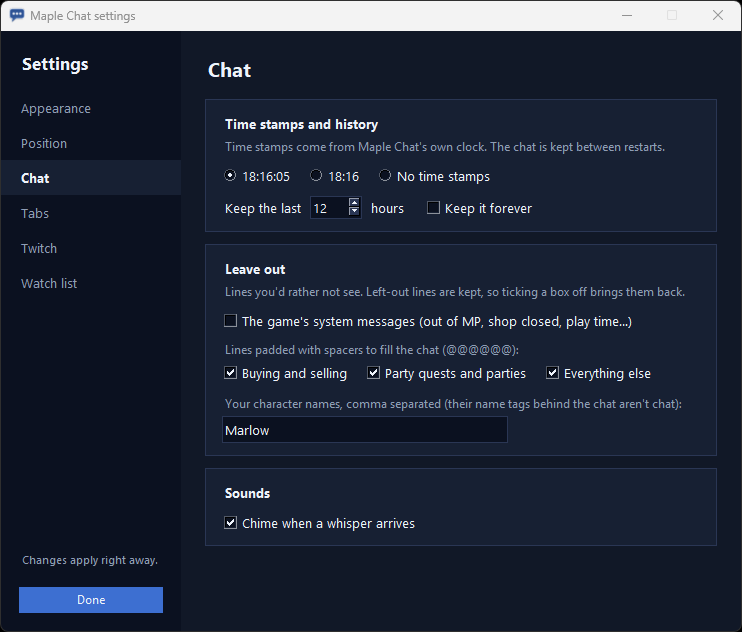
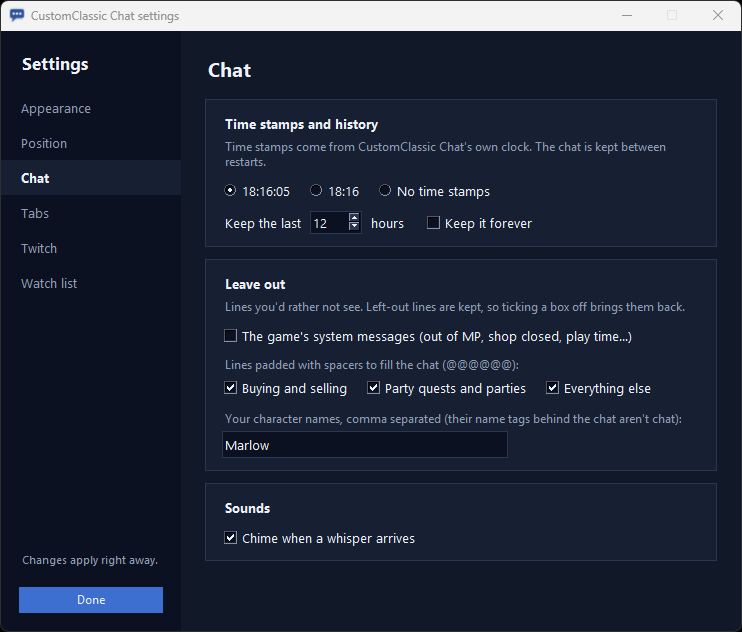
Rename to CustomClassic Chat: a customizable chat and smega blocker
Maple Chat was too generic a name. The app, its window titles, tray icon, messages, exe
(CustomClassicChat.exe), zip, README and screenshots now say CustomClassic Chat; the main
module is customclassic_chat.py. Settings and chat history files keep their names, so an
update keeps them.

diff --git a/customclassic_chat.py b/customclassic_chat.py
@@ -1,4 +1,4 @@
-"""Maple Chat: a modern chat panel over the game's own chat box, without the megaphones.
+"""CustomClassic Chat: a modern chat panel over the game's own chat box, without the megaphones.
 
 It sits exactly inside the game's chat box (its tab strip is the box's top line) and shows the
 same chat sorted into tabs: All (everything but megaphones), Whisper, Party, Buddy and Mega
@@ -15,14 +15,14 @@ leaves this PC. The panel hides while the game isn't the active window.
 See-through: clicking ◐ on the tab strip makes the messages 90% see-through and lets clicks
 through, so the game's own chat shows and can be clicked; clicking it again makes them solid.
 
-    start.bat                   (or: pythonw maple_chat.py)
+    start.bat                   (or: pythonw customclassic_chat.py)
     Ctrl+Alt+F5   adjust: drag to move, drag the bottom-right corner to resize; press again to save
     Ctrl+Alt+F3   reset position: back on the game's chat box, fitted again
     Ctrl+Alt+F6   hide / show
     Ctrl+Alt+F7   quit
 
-    python maple_chat.py --demo                       made-up messages, to try the tabs (reads nothing)
-    python maple_chat.py --replay shot1.png ...       read saved screenshots and print what goes where
+    python customclassic_chat.py --demo                       made-up messages, to try the tabs (reads nothing)
+    python customclassic_chat.py --replay shot1.png ...       read saved screenshots and print what goes where
 
 Settings: chat.json holds the panel's place (relative to the game window) and the options in DEFAULTS.
 """
@@ -53,7 +53,7 @@ DEFAULTS = {
     "keep_hours": 12,         # chat history kept between restarts, in hours; 0 keeps it forever
     "timestamps": "seconds",  # "seconds" [18:16:05], "minutes" [18:16] or "off"
     "opacity": 1.0,           # the panel's opacity when ◐ is off
-    "panel_bg": None,         # background colour; None: Maple Chat's dark blue
+    "panel_bg": None,         # background colour; None: CustomClassic Chat's dark blue
     "colors": {},             # text colour per chat type (map, whisper, party, buddy, system, mega); empty: the game's
     "see_through": False,     # ◐ clicked on: the messages see-through and click-through until clicked off
     "peek_alpha": 0.1,        # how opaque they are then: 0.1 is 90% see-through
@@ -87,7 +87,7 @@ CUSTOM_KINDS = [("map", "Map chat"), ("whisper", "Whispers"), ("party", "Party")
                 ("mega", "Megaphones"), ("system", "System messages"), ("watch", "Watch list catches")]
 COLORS = {"twitch": "#bf94ff", "map": "#ffffff", "whisper": "#00ff00", "party": "#ff8fc7", "buddy": "#ff9900", "other": "#c8d2e4",
           "mega": "#f2a7cf", "system": "#ffafaf", "status": "#ffc24b"}  # the game's own where measured; notes in amber
-# the game's own pop-ups that appear over the chat box: Maple Chat steps aside while one is up
+# the game's own pop-ups that appear over the chat box: CustomClassic Chat steps aside while one is up
 POPUP = re.compile(r"(?i)\b(?:party|guild|alliance|family)\s+invit\w*\s+from\b|\b(?:trade|friend|buddy)\s+request\s+from\b"
                    r"|\binvited\s+you\b")
 PANEL, STRIP, TAB, TAB_ON, INK, SOFT, DOT = "#111827", "#0b1120", "#1c2740", "#2f5597", "#eef3fb", "#8f9db5", "#ff4b4b"
@@ -348,7 +348,7 @@ STAMP_FORMATS = {"seconds": "%H:%M:%S", "minutes": "%H:%M", "off": None}
 
 
 def line_text(msg: dict, stamps: str = "seconds") -> str:
-    """A message as one chat line. The time is Maple Chat's own clock when the line was read,
+    """A message as one chat line. The time is CustomClassic Chat's own clock when the line was read,
     so it's there even when the game shows no time stamps."""
     who = msg["name"]
     if msg["kind"] == "whisper":
@@ -719,7 +719,7 @@ def start_tray(app):
         pystray.Menu.SEPARATOR,
         pystray.MenuItem("Quit", send("hotkey", HK_QUIT)),
     )
-    icon = pystray.Icon("MapleChat", icon_image(), "Maple Chat", menu)
+    icon = pystray.Icon("CustomClassicChat", icon_image(), "CustomClassic Chat", menu)
     threading.Thread(target=icon.run, daemon=True).start()
     return icon
 
@@ -968,9 +968,9 @@ class ChatPanel:
         self.repeat_id = None
         self.user_hidden = False
         self.line = (opts["box"] or {}).get("line") or 24.0
-        self.msgs = overlay.Overlay("Maple Chat", 40, 40, 400, 100, click_through=False)
+        self.msgs = overlay.Overlay("CustomClassic Chat", 40, 40, 400, 100, click_through=False)
         self.root = self.msgs.root
-        self.strip = overlay.Overlay("Maple Chat tabs", 40, 20, 400, 20, master=self.root, click_through=False)
+        self.strip = overlay.Overlay("CustomClassic Chat tabs", 40, 20, 400, 20, master=self.root, click_through=False)
         for w in (self.msgs, self.strip):
             w.canvas.configure(bg=self.opts["panel_bg"] or PANEL)
             w.canvas.bind("<MouseWheel>", self.on_wheel)
@@ -1052,7 +1052,7 @@ class ChatPanel:
             self.toast.root.destroy()
         p = self.panel_now()
         w = max(300, min(560, p["width"] - 20))
-        t = self.toast = self.overlay.Overlay("Maple Chat watch", p["left"] + 10, 0, w, 10, master=self.root,
+        t = self.toast = self.overlay.Overlay("CustomClassic Chat watch", p["left"] + 10, 0, w, 10, master=self.root,
                                               click_through=False)
         c = t.canvas
         c.configure(bg="#2a2208")
@@ -1451,7 +1451,7 @@ class ChatPanel:
         """A colour picker for the background (panel_bg) or one chat type's text."""
         from tkinter import colorchooser
         now = self.opts["panel_bg"] or PANEL if key == "panel_bg" else self.opts["colors"].get(key) or COLORS[key]
-        _, chosen = colorchooser.askcolor(color=now, parent=self.settings, title="Maple Chat colour")
+        _, chosen = colorchooser.askcolor(color=now, parent=self.settings, title="CustomClassic Chat colour")
         if not chosen:
             return
         if key == "panel_bg":
@@ -1471,7 +1471,7 @@ class ChatPanel:
         self.render()
 
     def icon_path(self) -> Path:
-        return save_icon(CACHE_DIR / "maple_chat.ico")
+        return save_icon(CACHE_DIR / "customclassic_chat.ico")
 
     def open_settings(self) -> None:
         """The settings window (settings_ui.py); a second open brings the first to the front."""
@@ -1610,14 +1610,14 @@ def print_replay(paths: list[Path]) -> None:
 
 def main(argv: list[str]) -> None:
     import overlay
-    if "--make-icon" in argv:  # for shortcuts: cache/maple_chat.ico
-        print(save_icon(CACHE_DIR / "maple_chat.ico"))
+    if "--make-icon" in argv:  # for shortcuts: cache/customclassic_chat.ico
+        print(save_icon(CACHE_DIR / "customclassic_chat.ico"))
         return
     if "--replay" in argv:
         print_replay([Path(a) for a in argv[argv.index("--replay") + 1:] if not a.startswith("--")])
         return
-    if not overlay.single_instance("MapleChatOverlay"):
-        message("Maple Chat is already running. Its blue speech-bubble icon is in the taskbar's notification "
+    if not overlay.single_instance("CustomClassicChatOverlay"):
+        message("CustomClassic Chat is already running. Its blue speech-bubble icon is in the taskbar's notification "
                 "area (bottom right, maybe behind the ^ arrow).")
         return
     overlay.dpi_aware()
@@ -1628,7 +1628,7 @@ def main(argv: list[str]) -> None:
 def message(text: str) -> None:
     """A plain Windows message box: the .exe has no console to print to."""
     import ctypes
-    ctypes.windll.user32.MessageBoxW(None, text, "Maple Chat", 0x40)  # MB_ICONINFORMATION
+    ctypes.windll.user32.MessageBoxW(None, text, "CustomClassic Chat", 0x40)  # MB_ICONINFORMATION
 
 
 if __name__ == "__main__":
@@ -1637,4 +1637,4 @@ if __name__ == "__main__":
     except Exception:  # without a console a crash would vanish: keep it in crash.log and say so
         import traceback
         (HERE / "crash.log").write_text(traceback.format_exc(), encoding="utf-8")
-        message(f"Maple Chat stopped because of an error. The details are in {HERE / 'crash.log'}.")
+        message(f"CustomClassic Chat stopped because of an error. The details are in {HERE / 'crash.log'}.")

diff --git a/settings_ui.py b/settings_ui.py
@@ -1,4 +1,4 @@
-"""Maple Chat's settings window: a sidebar of sections, each a page of cards.
+"""CustomClassic Chat's settings window: a sidebar of sections, each a page of cards.
 
 Every change applies as it's made (the panel's own methods do the work and save), so there is
 no Save button: Done just closes the window. The pages follow what a player looks for:
@@ -93,7 +93,7 @@ class SettingsWindow:
     def __init__(self, app):
         self.app, self.opts = app, app.opts
         top = self.top = tk.Toplevel(app.root)
-        top.title("Maple Chat settings")
+        top.title("CustomClassic Chat settings")
         top.configure(bg=BG)
         top.resizable(False, False)
         top.attributes("-topmost", True)
@@ -202,7 +202,7 @@ class SettingsWindow:
         button(c, "Reset to default colours", self.reset_colours).pack(anchor="w", pady=(10, 0))
 
     def colour_of(self, key: str) -> str:
-        from maple_chat import COLORS, PANEL
+        from customclassic_chat import COLORS, PANEL
         return (self.opts["panel_bg"] or PANEL) if key == "panel_bg" else (self.opts["colors"].get(key) or COLORS[key])
 
     def paint_swatches(self) -> None:
@@ -236,9 +236,9 @@ class SettingsWindow:
 
     def chat(self, page) -> None:
         app, opts = self.app, self.opts
-        from maple_chat import PADDED_KINDS
+        from customclassic_chat import PADDED_KINDS
         c = card(page, "Time stamps and history",
-                 "Time stamps come from Maple Chat's own clock. The chat is kept between restarts.")
+                 "Time stamps come from CustomClassic Chat's own clock. The chat is kept between restarts.")
         stamps = tk.StringVar(value=opts["timestamps"])
         row = tk.Frame(c, bg=CARD)
         row.pack(fill="x")
@@ -302,7 +302,7 @@ class SettingsWindow:
 
     def tabs(self, page) -> None:
         app, opts = self.app, self.opts
-        from maple_chat import CUSTOM_KINDS
+        from customclassic_chat import CUSTOM_KINDS
         custom = {"on": False, "name": "Custom", "kinds": [], **(opts["custom_tab"] or {})}
         on = tk.BooleanVar(value=custom["on"])
         name = tk.StringVar(value=custom["name"])

diff --git a/tests/fitcheck.py b/tests/fitcheck.py
@@ -1,8 +1,8 @@
-"""Checks how well Maple Chat fits and reads the game at its current resolution and UI Size.
+"""Checks how well CustomClassic Chat fits and reads the game at its current resolution and UI Size.
 
 Run it with the game in front (python tests/fitcheck.py). It reads the game window once, the
-way Maple Chat does (text only, nothing saved), and prints the game's size, the chat box Maple
-Chat has saved, a fresh measurement of the chat box, and how many chat lines read cleanly.
+way CustomClassic Chat does (text only, nothing saved), and prints the game's size, the chat
+box it has saved, a fresh measurement of the chat box, and how many chat lines read cleanly.
 """
 import sys
 import time
@@ -10,7 +10,7 @@ from pathlib import Path
 
 sys.path.insert(0, str(Path(__file__).resolve().parents[1]))
 
-import maple_chat as mc  # noqa: E402
+import customclassic_chat as mc  # noqa: E402
 import reader as core  # noqa: E402
 
 

diff --git a/watch.py b/watch.py
@@ -1,4 +1,4 @@
-"""Maple Chat's watch list: words and items to look out for in megaphones.
+"""CustomClassic Chat's watch list: words and items to look out for in megaphones.
 
 An entry is a word or an item name. On its own it fires on any megaphone that mentions it
 (close spellings count, so "mushrnom" from a blurry read still finds "mushmom", unless the
@@ -8,7 +8,7 @@ what's sold or bought at what price. Item names and the shorthands chat uses for
 from the price site's /api/names (kept for an hour in cache/names.json, so it works offline
 from the last copy); prices are only ever the ones you type.
 
-Nothing here touches the game: it only looks at messages Maple Chat already read.
+Nothing here touches the game: it only looks at messages CustomClassic Chat already read.
 """
 
 from __future__ import annotations

diff --git a/twitch_chat.py b/twitch_chat.py
@@ -1,4 +1,4 @@
-"""Twitch chat for Maple Chat: a channel's chat, read anonymously by its name.
+"""Twitch chat for CustomClassic Chat: a channel's chat, read anonymously by its name.
 
 Twitch lets anyone read a channel's chat as a guest ("justinfan" + a number) over its chat
 server, so no login, key or app is needed, and nothing is ever sent to the chat. Messages
@@ -65,7 +65,7 @@ def readable(color: str) -> str:
 
 
 def message(msg: dict, now: float) -> dict | None:
-    """A chat message as Maple Chat shows it, or None for anything else."""
+    """A chat message as CustomClassic Chat shows it, or None for anything else."""
     if msg["cmd"] != "PRIVMSG" or msg["text"] is None:
         return None
     tags, text = msg["tags"], msg["text"]

diff --git a/trade_parser.py b/trade_parser.py
@@ -10,7 +10,7 @@ becomes three observations:
     sell  "Gloves Attack Scroll: Intermediate"     3,500,000 ask (each)
     buy   "ilbis"                                  20,000,000 bid
 
-Item text is *not* resolved here; Maple Chat's watch list (watch.py) maps it onto the
+Item text is *not* resolved here; CustomClassic Chat's watch list (watch.py) maps it onto the
 price site's item names. This is the Maple Price Index server's parser, copied as is.
 The parser is deliberately forgiving about OCR noise and slang, and conservative
 about what counts as a price (a bare "5" is never a price; "5m" is).

diff --git a/overlay.py b/overlay.py
@@ -1,4 +1,4 @@
-"""Click-through, always-on-top windows on top of the game (deal alerts, Maple Chat).
+"""Click-through, always-on-top windows on top of the game (deal alerts, CustomClassic Chat).
 
 A borderless Tk window whose KEY_COLOR pixels are see-through, with WS_EX_TRANSPARENT so
 every click lands on the window below, re-raised every 2 s because borderless games push

diff --git a/tests/test_chat.py b/tests/test_chat.py
@@ -4,7 +4,7 @@ from types import SimpleNamespace
 
 sys.path.insert(0, str(Path(__file__).resolve().parents[1]))
 
-import maple_chat as mc  # noqa: E402
+import customclassic_chat as mc  # noqa: E402
 from reader import Line  # noqa: E402
 
 

diff --git a/README.md b/README.md
@@ -1,10 +1,12 @@
-# Maple Chat
+# CustomClassic Chat
 
-A modern chat panel for **MapleStory Classic World** that sits exactly inside the game's own
-chat box and keeps the **megaphones out of your chat**. Map chat, whispers, party and buddy
+**A customizable chat and smega blocker for MapleStory Classic World.**
+
+A modern chat panel that sits exactly inside the game's own chat box and keeps the
+**megaphones out of your chat**. Map chat, whispers, party and buddy
 chat stay readable; megaphones get their own tab instead of flooding everything else.
 
-![Maple Chat over the game's chat box: the All tab with map chat, whispers, buddy and party chat, and dots on Mega and Watch](docs/chat-all.png)
+![CustomClassic Chat over the game's chat box: the All tab with map chat, whispers, buddy and party chat, and dots on Mega and Watch](docs/chat-all.png)
 
 ![The Mega tab with megaphones on their coloured bands, and a watch-list catch: a gold note above the chat and a star on the line](docs/chat-mega-watch.png)
 
@@ -31,7 +33,7 @@ chat stay readable; megaphones get their own tab instead of flooding everything 
 
 Windows 10/11 only. The game has to run **windowed** or **borderless**.
 
-> **Disclaimer.** Maple Chat is third-party software, not made or endorsed by Nexon. It
+> **Disclaimer.** CustomClassic Chat is third-party software, not made or endorsed by Nexon. It
 > interacts with the game only in the way considered safe for such tools: it **reads what's
 > on screen** with text recognition (OCR), much like a screen recorder or streaming software
 > sees the game. It never opens the game's process, never reads or changes game memory or
@@ -43,25 +45,25 @@ Windows 10/11 only. The game has to run **windowed** or **borderless**.
 
 ## Download
 
-**[⬇ MapleChat-win64.zip](https://github.com/mentulatv/maple-chat/releases/latest/download/MapleChat-win64.zip)**
+**[⬇ CustomClassicChat-win64.zip](https://github.com/mentulatv/customclassic-chat/releases/latest/download/CustomClassicChat-win64.zip)**
 (the latest version, about 110 MB; nothing to install)
 
-1. Unzip it anywhere, for example `Documents\MapleChat`.
-2. Start the game, then double-click **`MapleChat.exe`**. Maple Chat waits for the game, finds
+1. Unzip it anywhere, for example `Documents\CustomClassicChat`.
+2. Start the game, then double-click **`CustomClassicChat.exe`**. CustomClassic Chat waits for the game, finds
    its chat box and settles into it. Its blue speech-bubble icon appears in the taskbar's
    notification area (bottom right, maybe behind the **^** arrow).
 
 > Windows may say "Windows protected your PC", because the program isn't code-signed.
 > Click **More info → Run anyway**.
 
-Want to look around first? **`Maple Chat demo.bat`** shows made-up messages without reading
+Want to look around first? **`CustomClassic Chat demo.bat`** shows made-up messages without reading
 anything. To update, unzip a newer version over the old folder: your settings and chat history
 (`chat.json`, `chat_history.jsonl`) stay.
 
 **Game settings:** any resolution and **UI Size** work; **1280×720 or larger** is recommended,
 since smaller windows make the chat text tiny to read. Run the game **windowed**: an overlay
 can't draw over a fullscreen game, so in the "(Full Screen)" resolutions the panel may not show.
-Change the UI Size or resolution and Maple Chat fits itself again within a few seconds.
+Change the UI Size or resolution and CustomClassic Chat fits itself again within a few seconds.
 
 ### Running from source
 
@@ -111,7 +113,7 @@ Right-click the tray icon → **Settings…**. Changes apply right away and are 
 
 - Text size (or match the game's), how see-through ◐ makes it, the panel's opacity
 - Position: on the game's chat, or **unlocked** to go anywhere, and **Reset position**
-- Time stamps: with seconds, without, or off. They come from Maple Chat's own clock.
+- Time stamps: with seconds, without, or off. They come from CustomClassic Chat's own clock.
 - How many hours of history to keep, or forever
 - Colours of the background and of each chat type, and **Reset to default colours**
 - Your character names, so their name tags behind the chat are left out
@@ -131,7 +133,7 @@ Right-click the tray icon → **Settings…**. Changes apply right away and are 
 Settings → tick **Twitch chat from the channel**, type the channel's name (or paste its
 twitch.tv link) and press **Use**. Its chat shows in a **Twitch** tab, each chatter in their
 own name colour, and in All too if you tick **Show it in All too**. The custom tab can show it
-as well. Maple Chat reads the chat as a guest, the way anyone can watch a channel's chat
+as well. CustomClassic Chat reads the chat as a guest, the way anyone can watch a channel's chat
 without logging in: no account, key or password, and it never writes in the chat.
 
 ## Watch list
@@ -155,14 +157,14 @@ chime or pop-up off.
 
 Item names (the game's own) and their shorthands come from the
 [Maple Price Index](https://mapleprice.mentula.tv); no prices come with them, the only prices
-are the ones you type. Maple Chat downloads the list once an hour and keeps a copy in
+are the ones you type. CustomClassic Chat downloads the list once an hour and keeps a copy in
 `cache/names.json`, so it still works offline.
-That download (and, if you opt in, the Twitch chat you chose) is the only thing Maple Chat
+That download (and, if you opt in, the Twitch chat you chose) is the only thing CustomClassic Chat
 fetches. Your game chat never leaves your PC.
 
 ## How it works
 
-About once a second, Maple Chat asks Windows for a picture of the game window through
+About once a second, CustomClassic Chat asks Windows for a picture of the game window through
 Windows Graphics Capture (the same way OBS's window capture works) and reads the chat lines
 with [RapidOCR](https://github.com/RapidAI/RapidOCR). Because it reads the game window itself,
 covering the game's chat doesn't stop it from reading. Each line's colours tell the chat types
@@ -179,7 +181,7 @@ asked for; the game's process is never opened.
 
 | File | |
 |---|---|
-| `maple_chat.py` | the panel, tabs and the reading loop |
+| `customclassic_chat.py` | the panel, tabs and the reading loop |
 | `settings_ui.py` | the settings window |
 | `twitch_chat.py` | Twitch chat, read as a guest |
 | `reader.py` | text recognition and chat colours |
@@ -203,13 +205,13 @@ Chat colours were measured on the Windia world. If a chat type shows in the wron
 - **Odd words in the chat:** see "Your character names" in Settings. Send a screenshot in an
   issue for anything else.
 
-Try changes without the game: `python maple_chat.py --replay screenshot.png` prints which tab
+Try changes without the game: `python customclassic_chat.py --replay screenshot.png` prints which tab
 each chat line of a saved screenshot lands in. Tests: `python -m pytest`.
 
 ## Roadmap
 
 - **Discord channel** chat in its own tab (opt-in, like Twitch)
-- **Chatting back**: logging in with Twitch or Discord to write in those chats from Maple Chat
+- **Chatting back**: logging in with Twitch or Discord to write in those chats from CustomClassic Chat
 
 ## License
 
